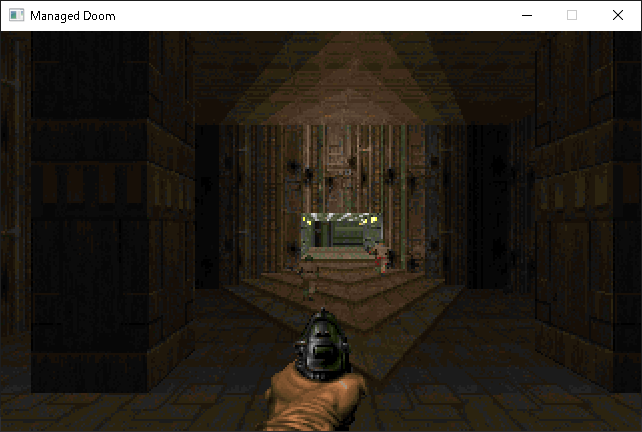
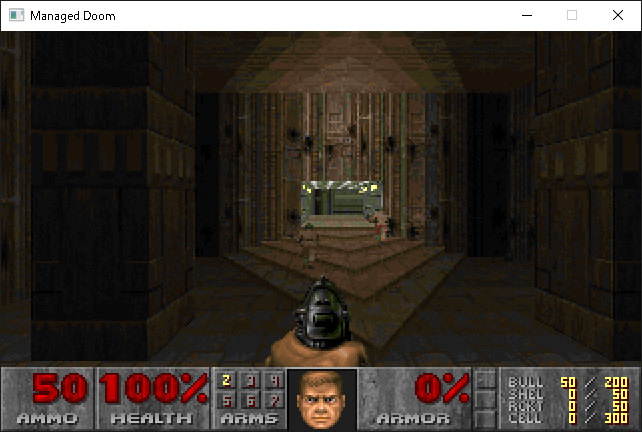
Add more status bar related code.

diff --git a/ManagedDoom/src/SoftwareRendering/StatusBarRenderer.cs b/ManagedDoom/src/SoftwareRendering/StatusBarRenderer.cs
@@ -111,7 +111,8 @@ namespace ManagedDoom.SoftwareRendering
         private static readonly int ST_DETHX = 109;
         private static readonly int ST_DETHY = 191;
 
-
+        public static readonly int ST_FACESX = 143;
+        public static readonly int ST_FACESY = 168;
 
 
 
@@ -126,6 +127,8 @@ namespace ManagedDoom.SoftwareRendering
 
         private NumberWidget[] wAmmo;
         private NumberWidget[] wMaxAmmo;
+
+        private MultIconWidget[] wArms;
 
         public StatusBarRenderer(CommonPatches patches, DrawScreen screen)
         {
@@ -204,14 +207,27 @@ namespace ManagedDoom.SoftwareRendering
             wMaxAmmo[3].Width = ST_MAXAMMO3WIDTH;
             wMaxAmmo[3].X = ST_MAXAMMO3X;
             wMaxAmmo[3].Y = ST_MAXAMMO3Y;
+
+            // weapons owned
+            wArms = new MultIconWidget[6];
+            for (var i = 0; i < wArms.Length; i++)
+            {
+                wArms[i] = new MultIconWidget();
+                wArms[i].X = ST_ARMSX + (i % 3) * ST_ARMSXSPACE;
+                wArms[i].Y = ST_ARMSY + (i / 3) * ST_ARMSYSPACE;
+                wArms[i].Patches = patches.Arms[i];
+            }
         }
 
         public void Render(Player player)
         {
             screen.DrawPatch(patches.StatusBar, 0, scale * (200 - 32), scale);
 
-            wReady.Number = player.Ammo[(int)DoomInfo.WeaponInfos[(int)player.ReadyWeapon].Ammo];
-            DrawNumber(wReady);
+            if (DoomInfo.WeaponInfos[(int)player.ReadyWeapon].Ammo != AmmoType.NoAmmo)
+            {
+                wReady.Number = player.Ammo[(int)DoomInfo.WeaponInfos[(int)player.ReadyWeapon].Ammo];
+                DrawNumber(wReady);
+            }
 
             wHealth.NumberWidget.Number = player.Health;
             DrawPercent(wHealth);
@@ -227,6 +243,23 @@ namespace ManagedDoom.SoftwareRendering
                 wMaxAmmo[i].Number = player.MaxAmmo[i];
                 DrawNumber(wMaxAmmo[i]);
             }
+
+            screen.DrawPatch(
+                patches.ArmsBg,
+                scale * ST_ARMSBGX,
+                scale * ST_ARMSBGY,
+                scale);
+            for (var i = 0; i < wArms.Length; i++)
+            {
+                wArms[i].Number = player.WeaponOwned[i + 1] ? 1 : 0;
+                DrawMultIcon(wArms[i]);
+            }
+
+            screen.DrawPatch(
+                patches.Faces[1],
+                scale * ST_FACESX,
+                scale * ST_FACESY,
+                scale);
         }
 
         private void DrawNumber(NumberWidget n)
@@ -306,6 +339,15 @@ namespace ManagedDoom.SoftwareRendering
             DrawNumber(per.NumberWidget);
         }
 
+        private void DrawMultIcon(MultIconWidget mi)
+        {
+            screen.DrawPatch(
+                mi.Patches[mi.Number],
+                scale * mi.X,
+                scale * mi.Y,
+                scale);
+        }
+
 
 
         private class NumberWidget
@@ -321,6 +363,14 @@ namespace ManagedDoom.SoftwareRendering
         {
             public NumberWidget NumberWidget = new NumberWidget();
             public Patch Patch;
+        }
+
+        private class MultIconWidget
+        {
+            public int X;
+            public int Y;
+            public int Number;
+            public Patch[] Patches;
         }
     }
 }

diff --git a/ManagedDoom/src/Doom/Info/DoomInfo.WeaponInfos.cs b/ManagedDoom/src/Doom/Info/DoomInfo.WeaponInfos.cs
@@ -13,7 +13,8 @@ namespace ManagedDoom
                 MobjState.Punchdown,
                 MobjState.Punch,
                 MobjState.Punch1,
-                MobjState.Null),
+                MobjState.Null
+            ),
 
             // pistol
             new WeaponInfo(
@@ -22,7 +23,8 @@ namespace ManagedDoom
                 MobjState.Pistoldown,
                 MobjState.Pistol,
                 MobjState.Pistol1,
-                MobjState.Pistolflash),
+                MobjState.Pistolflash
+            ),
 
             // shotgun
             new WeaponInfo(
@@ -31,7 +33,8 @@ namespace ManagedDoom
                 MobjState.Sgundown,
                 MobjState.Sgun,
                 MobjState.Sgun1,
-                MobjState.Sgunflash1),
+                MobjState.Sgunflash1
+            ),
 
             // chaingun
             new WeaponInfo(
@@ -40,7 +43,8 @@ namespace ManagedDoom
                 MobjState.Chaindown,
                 MobjState.Chain,
                 MobjState.Chain1,
-                MobjState.Chainflash1),
+                MobjState.Chainflash1
+            ),
 
             // missile launcher
             new WeaponInfo(
@@ -49,7 +53,8 @@ namespace ManagedDoom
                 MobjState.Missiledown,
                 MobjState.Missile,
                 MobjState.Missile1,
-                MobjState.Missileflash1),
+                MobjState.Missileflash1
+            ),
 
             // plasma rifle
             new WeaponInfo(
@@ -58,7 +63,8 @@ namespace ManagedDoom
                 MobjState.Plasmadown,
                 MobjState.Plasma,
                 MobjState.Plasma1,
-                MobjState.Plasmaflash1),
+                MobjState.Plasmaflash1
+            ),
 
             // bfg 9000
             new WeaponInfo(
@@ -67,7 +73,8 @@ namespace ManagedDoom
                 MobjState.Bfgdown,
                 MobjState.Bfg,
                 MobjState.Bfg1,
-                MobjState.Bfgflash1),
+                MobjState.Bfgflash1
+            ),
 
             // chainsaw
             new WeaponInfo(
@@ -76,7 +83,8 @@ namespace ManagedDoom
                 MobjState.Sawdown,
                 MobjState.Saw,
                 MobjState.Saw1,
-                MobjState.Null),
+                MobjState.Null
+            ),
 
             // // super shotgun
             new WeaponInfo(
@@ -85,7 +93,8 @@ namespace ManagedDoom
                 MobjState.Dsgundown,
                 MobjState.Dsgun,
                 MobjState.Dsgun1,
-                MobjState.Dsgunflash1)
+                MobjState.Dsgunflash1
+            )
         };
     }
 }

diff --git a/ManagedDoom/src/Doom/Graphics/CommonPatches.cs b/ManagedDoom/src/Doom/Graphics/CommonPatches.cs
@@ -11,7 +11,9 @@ namespace ManagedDoom
         private Patch tallMinus;
         private Patch tallPercent;
         private Patch[] keys;
-
+        private Patch armsBg;
+        private Patch[][] arms;
+        private Patch[] faces;
 
 
 
@@ -95,8 +97,32 @@ namespace ManagedDoom
             {
                 keys[i] = Patch.FromWad("STKEYS" + i, wad);
             }
+            armsBg = Patch.FromWad("STARMS", wad);
+            arms = new Patch[6][];
+            for (var i = 0; i < 6; i++)
+            {
+                var num = i + 2;
+                arms[i] = new Patch[2];
+                arms[i][0] = Patch.FromWad("STGNUM" + num, wad);
+                arms[i][1] = shortNumbers[num];
+            }
 
-
+            faces = new Patch[DoomInfo.FaceInfos.ST_NUMFACES];
+            var facenum = 0;
+            for (var i = 0; i < DoomInfo.FaceInfos.ST_NUMPAINFACES; i++)
+            {
+                for (var j = 0; j < DoomInfo.FaceInfos.ST_NUMSTRAIGHTFACES; j++)
+                {
+                    faces[facenum++] = Patch.FromWad("STFST" + i + j, wad);
+                }
+                faces[facenum++] = Patch.FromWad("STFTR" + i + "0", wad);
+                faces[facenum++] = Patch.FromWad("STFTL" + i + "0", wad);
+                faces[facenum++] = Patch.FromWad("STFOUCH" + i, wad);
+                faces[facenum++] = Patch.FromWad("STFEVL" + i, wad);
+                faces[facenum++] = Patch.FromWad("STFKILL" + i, wad);
+            }
+            faces[facenum++] = Patch.FromWad("STFGOD0", wad);
+            faces[facenum++] = Patch.FromWad("STFDEAD0", wad);
 
 
             if (wad.GameMode == GameMode.Commercial)
@@ -199,7 +225,9 @@ namespace ManagedDoom
         public Patch TallMinus => tallMinus;
         public Patch TallPercent => tallPercent;
         public Patch[] Keys => keys;
-
+        public Patch ArmsBg => armsBg;
+        public Patch[][] Arms => arms;
+        public Patch[] Faces => faces;
 
 
 

diff --git a/ManagedDoom/src/Doom/Info/DoomInfo.FaceInfos.cs b/ManagedDoom/src/Doom/Info/DoomInfo.FaceInfos.cs
@@ -1,0 +1,36 @@
+using System;
+
+namespace ManagedDoom
+{
+    public static partial class DoomInfo
+    {
+        public static class FaceInfos
+        {
+            public static readonly int ST_NUMPAINFACES = 5;
+            public static readonly int ST_NUMSTRAIGHTFACES = 3;
+            public static readonly int ST_NUMTURNFACES = 2;
+            public static readonly int ST_NUMSPECIALFACES = 3;
+
+            public static readonly int ST_FACESTRIDE = (ST_NUMSTRAIGHTFACES + ST_NUMTURNFACES + ST_NUMSPECIALFACES);
+
+            public static readonly int ST_NUMEXTRAFACES = 2;
+
+            public static readonly int ST_NUMFACES = (ST_FACESTRIDE * ST_NUMPAINFACES + ST_NUMEXTRAFACES);
+
+            public static readonly int ST_TURNOFFSET = (ST_NUMSTRAIGHTFACES);
+            public static readonly int ST_OUCHOFFSET = (ST_TURNOFFSET + ST_NUMTURNFACES);
+            public static readonly int ST_EVILGRINOFFSET = (ST_OUCHOFFSET + 1);
+            public static readonly int ST_RAMPAGEOFFSET = (ST_EVILGRINOFFSET + 1);
+            public static readonly int ST_GODFACE = (ST_NUMPAINFACES * ST_FACESTRIDE);
+            public static readonly int ST_DEADFACE = (ST_GODFACE + 1);
+
+            public static readonly int ST_EVILGRINCOUNT = (2 * GameConstants.TicRate);
+            public static readonly int ST_STRAIGHTFACECOUNT = (GameConstants.TicRate / 2);
+            public static readonly int ST_TURNCOUNT = (1 * GameConstants.TicRate);
+            public static readonly int ST_OUCHCOUNT = (1 * GameConstants.TicRate);
+            public static readonly int ST_RAMPAGEDELAY = (2 * GameConstants.TicRate);
+
+            public static readonly int ST_MUCHPAIN = 20;
+        }
+    }
+}

diff --git a/ManagedDoom/src/Doom/Graphics/Palette.cs b/ManagedDoom/src/Doom/Graphics/Palette.cs
@@ -35,7 +35,7 @@ namespace ManagedDoom
 
         public static double CorrectionCurve(double x)
         {
-            return Math.Pow(x, 0.9);
+            return Math.Pow(x, 0.95);
         }
 
         public byte[] Data => data;
